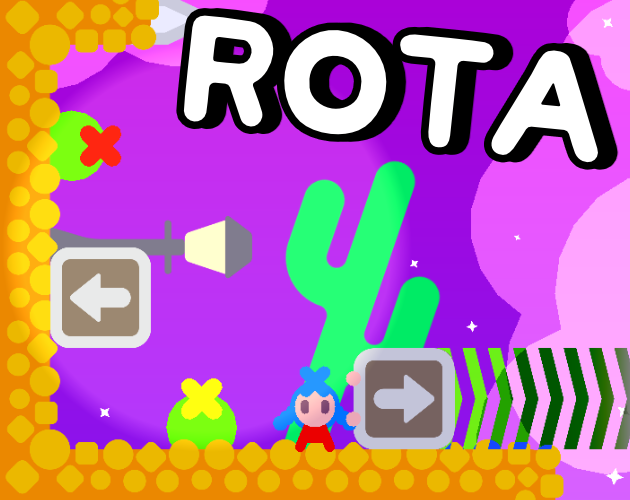
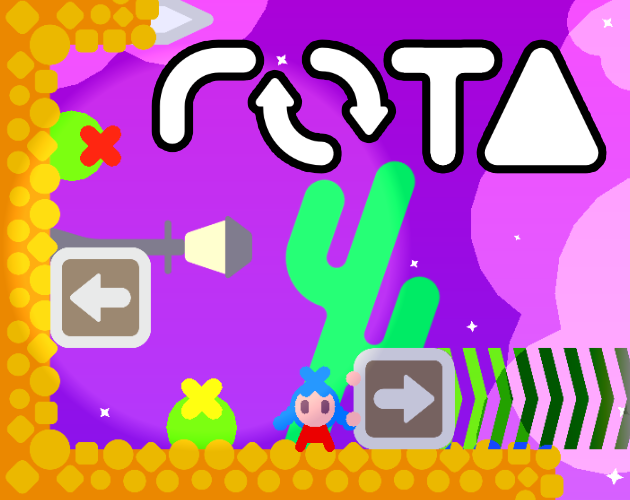
new rota image ! bio redesign (:

Changed region(s): [[0.2413, 0.0, 0.9952, 0.36]]

diff --git a/index.html b/index.html
@@ -187,6 +187,9 @@
       text-align: center;
       font-size: clamp(0.5rem, 6vw, 4rem);
     }
+    .foot-sm{
+      font-size: clamp(0.3rem, 5vw, 3rem);
+    }
   
     .rota{
       color: #fff;
@@ -254,7 +257,7 @@
   <div class="tainer container">
 
     <div class="row row-cols-1 gx-0 gy-0" style="margin: 10px 0 0 0;">
-        <div class="col mx-auto button bell" style="padding: 1%"> <img src="content/logo/hhoney_slim.svg" class="img-fluid w-100"> </div>
+        <div class="col mx-auto bell" style="padding: 1%"> <img src="content/logo/hhoney_slim.svg" class="img-fluid w-100"> </div>
         <div class="title col mx-auto" style="margin: 0 0 20px 0"> <i class="fas fa-gamepad"></i> Games </div>
     </div>
 
@@ -272,15 +275,15 @@
 
       <div class="row row-cols-1 gx-0 gy-0" style="margin: 50px 0px 0px 0px">
 
-        <div class="row row-cols-2 gx-0 gy-0 bell button" style="margin: 0 0 20px 0;">
+        <div class="row row-cols-2 gx-0 gy-0 bell" style="margin: 0 0 20px 0;">
           <div class="foot col mx-auto my-auto"> <a href="https://github.com/HarmonyHoney/" target="_blank" class="foot"> <img class="pic" src="content/logo/skating.jpg"> </a> </div>
           <div class="foot col mx-auto my-auto text-start">Harmony Honey<br>Monroe</div>
         </div>
 
-        <div class="foot col mx-auto"> Game Developer <i class="fas fa-gamepad"></i> </div>
-        <div class="foot col mx-auto"> <i class="fas fa-paintbrush"></i> Artist</div>
-        <div class="foot col mx-auto"> Baltimore, Maryland <i class="fas fa-flag-usa"></i> USA </div>
-        <a class="foot col mx-auto button bell" href="mailto:harmonymonroe@proton.me"><i class="fas fa-envelope"></i> HarmonyMonroe@proton.me</a>
+        <div class="foot col mx-auto"><i class="fa-solid fa-pencil"></i> Artist</div>
+        <div class="foot col mx-auto"><i class="fas fa-gamepad"></i> Game Developer <i class="fa-solid fa-hammer"></i></div>
+        <div class="foot col mx-auto">Baltimore, Maryland <i class="fas fa-flag-usa"></i> USA</div>
+        <a class="foot foot-sm col mx-auto button bell" href="mailto:harmonymonroe@proton.me"><i class="fas fa-envelope"></i> harmonymonroe@proton.me <i class="fa-solid fa-paper-plane"></i></a>
         
         <a class="foot button col mx-auto bell" style="margin: 60px 0 30px 0;" href="https://www.youtube.com/@hhoney7" target="_none"> <i class="fa-solid fa-eye"></i> Watch on YouTube! <i class="fab fa-youtube "></i> </a>
         <div class="col ratio ratio-16x9 gx-0 gy-0" style="margin: 0 0 0 0"> <iframe class="vid" src="https://www.youtube.com/embed/0zj5jGAFZB8" title="YouTube video player" frameborder="0" allow="accelerometer; autoplay; clipboard-write; encrypted-media; gyroscope; picture-in-picture" allowfullscreen></iframe> </div>
@@ -385,7 +388,7 @@
   <!-- TODO: INSERT LINKS HERE -->
 
   <div class="row" style="margin: 30px 0">
-    <a href="https://github.com/HarmonyHoney/" target="_blank" class="foot button col bell"> <i class="fas fa-code"></i> Test Link <i class="fas fa-code-fork"></i> </a>
+    <a href="https://github.com/HarmonyHoney/" target="_blank" class="foot button col bell"> <i class="fa-solid fa-link"></i> GitHub YouTube Discord itch.io Bluesky Etc <i class="fas fa-code-fork"></i> </a>
   </div>
 
   </main>
